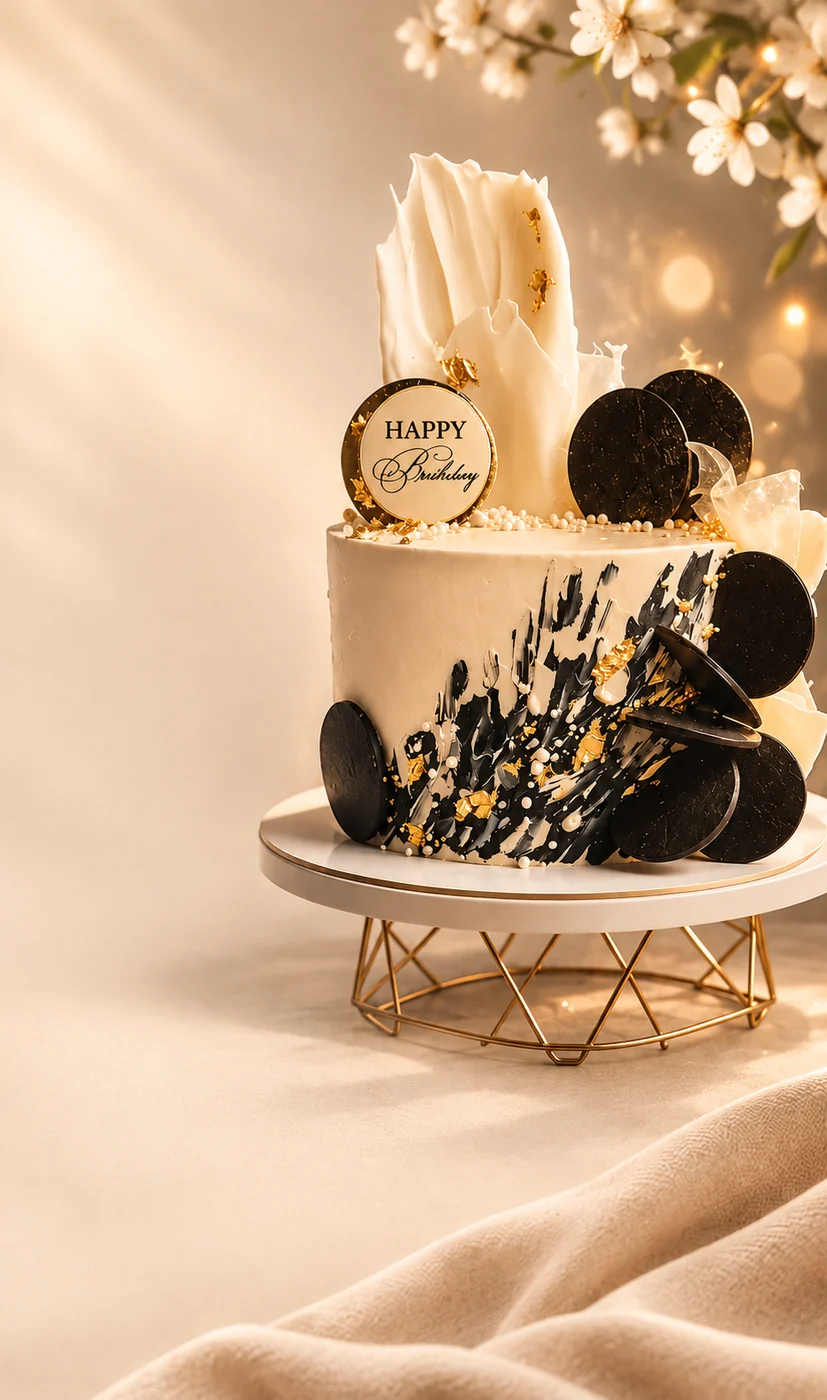
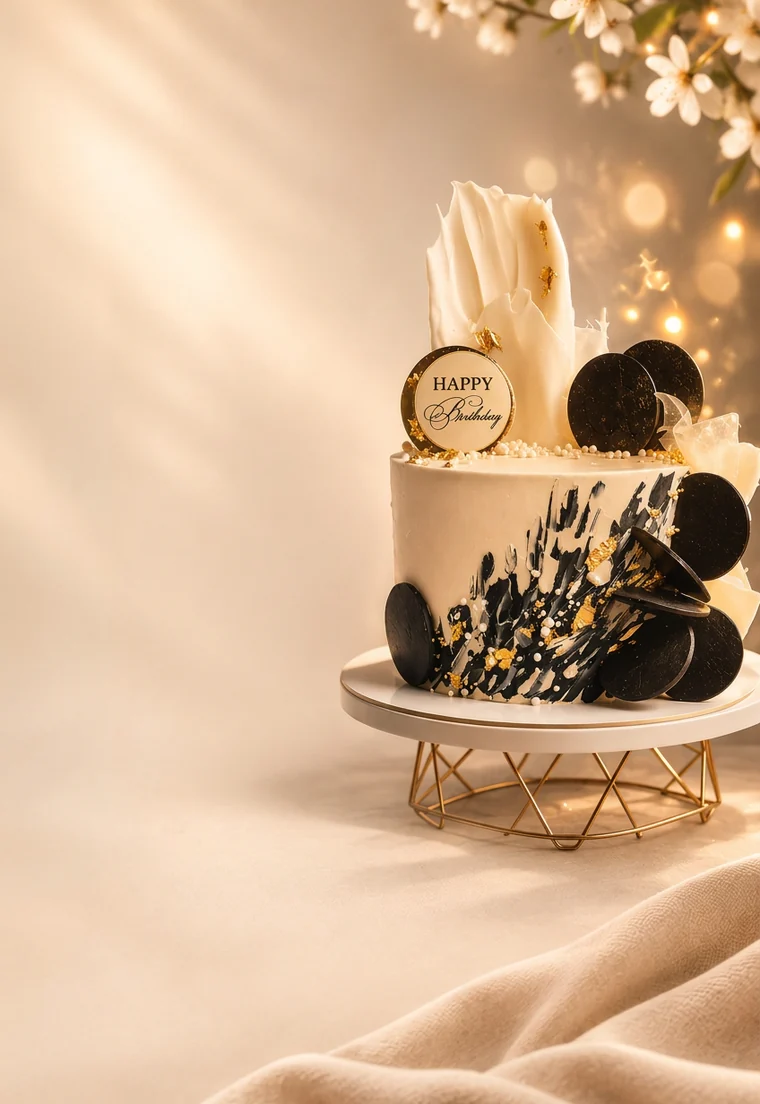
r18: герой на всю площадь сцены, фиксы hover CTA и центровки количества
- hero: новый арт с широкой рамой (торт справа 45%, стена/солнце слева),
  картинка во всю ширину и высоту по пропорции, мягкие световые переходы
  вместо прямоугольной маски; цветы и боке на месте
- текст держится в левой колонке: доставка в 2 строки, фичи в 2 строки,
  рейтинги и мессенджеры уходят под торт на чистый свет
- мессенджеры в герое по центру
- CTA: hover больше не убирает фон пилюли (кнопка «исчезала»)
- калькулятор: значение количества центрировано при «Бенто»/«Макси Бенто»
- версии: final-fixes -> 20261116r18, sw r136

diff --git a/css/final-fixes.css b/css/final-fixes.css
@@ -61,16 +61,16 @@ html:not([data-theme="dark"]) .hero .btn-primary.btn-primary--hero,
    box-shadow на элементе с radius:0, и он читался как серая рамка вокруг CTA. */
 /* 7.1 Телефон: CTA плоский — на hover меняется только текст и стрелка. */
 @media (max-width: 768px) {
+  /* [r17-fix] hover НЕ убирает фон пилюли: раньше кнопка становилась прозрачной
+     и текст «исчезал». Реагирует только сам текст и стрелка. */
   :root:not([data-theme="dark"]) .hero .btn-primary.btn-primary--hero:hover,
   html:not([data-theme="dark"]) .hero .btn-primary.btn-primary--hero:hover,
   [data-theme="dark"] .hero .btn-primary.btn-primary--hero:hover,
   .hero .btn-primary.btn-primary--hero:hover {
-    background: transparent !important;
     transform: none !important;
     border: 0 !important;
     outline: 0 !important;
-    box-shadow: none !important;
-    color: inherit;
+    filter: brightness(1.06);
   }
 }
 /* 7.2 Десктоп: кнопка залитая — hover не рисует коробку, только мягкая тень. */
@@ -1140,11 +1140,11 @@ html #contacts .card.card--dark .contact-primary-icon {
     transition: transform .42s cubic-bezier(.16,1,.3,1);
   }
   body.mc-home .hero-actions .btn-primary--hero:hover .btn-hero-go { transform: translateX(4px); }
+  /* [r17-fix] при наведении фон пилюли сохраняется — раньше кнопка
+     становилась прозрачной и надпись «исчезала» на фото. */
   body.mc-home .hero .hero-actions .btn-primary.btn-primary--hero:hover,
   body.mc-home .hero .hero-actions .btn-primary.btn-primary--hero:focus,
   body.mc-home .hero .hero-actions .btn-primary.btn-primary--hero:active {
-    background: none !important;
-    color: var(--brown) !important;
     transform: none !important;
   }
   /* наведение: сам текст уходит в глубокий золотистый тон, рамки нет */
@@ -1618,52 +1618,50 @@ html:not([data-theme="dark"]) body:has(.hero-tag) .price-card-note {
   body.mc-home .hero-art {
     display: block;
     position: absolute;
-    top: 50px;
-    right: -17vw;
-    width: 66vw;
+    inset: 0 0 auto 0;
+    width: 100%;
+    height: auto;
     z-index: 0;
     pointer-events: none;
   }
-  /* верхняя кромка арта уходит под шапку без видимого шва */
+  /* [r17-b] Арт живёт на всей площади героя, как на постере-референсе:
+     остаются и солнце на стене, и цветы, и лён внизу. Края не режем
+     прямоугольником, только мягкие световые переходы. */
   body.mc-home .hero-art::before {
     content: '';
     position: absolute;
-    inset: 0 0 auto 0;
-    height: 26%;
-    background: linear-gradient(180deg, var(--cream) 0%, rgba(247, 241, 232, .55) 46%, rgba(247, 241, 232, 0) 100%);
+    inset: 0;
     z-index: 1;
+    background:
+      linear-gradient(100deg, rgba(250, 245, 236, .5) 0%, rgba(250, 245, 236, .3) 22%, rgba(250, 245, 236, .06) 42%, rgba(250, 245, 236, 0) 54%),
+      radial-gradient(128% 46% at 6% 44%, rgba(250, 245, 236, .78) 0%, rgba(250, 245, 236, .46) 46%, rgba(250, 245, 236, 0) 74%),
+      linear-gradient(180deg, rgba(250, 245, 236, .3) 0%, rgba(250, 245, 236, 0) 14%);
     pointer-events: none;
   }
-  [data-theme="dark"] body.mc-home .hero-art::before {
-    background: linear-gradient(180deg, var(--cream) 0%, rgba(14, 9, 5, .55) 46%, rgba(14, 9, 5, 0) 100%);
-  }
-  /* кремовая вуаль: левая часть арта растворяется, текст остаётся на бумаге */
   body.mc-home .hero-art::after {
     content: '';
     position: absolute;
     inset: 0;
     z-index: 2;
-    background: linear-gradient(90deg, var(--cream) 0%, rgba(247, 241, 232, .82) 26%, rgba(247, 241, 232, .18) 46%, rgba(247, 241, 232, 0) 60%);
+    background: linear-gradient(180deg, rgba(247, 241, 232, 0) 46%, rgba(247, 241, 232, .34) 62%, rgba(247, 241, 232, .78) 80%, var(--cream) 94%);
     pointer-events: none;
   }
   body.mc-home .hero-art img {
     display: block;
     width: 100%;
     height: auto;
-    -webkit-mask-image: radial-gradient(74% 60% at 66% 40%, #000 52%, rgba(0, 0, 0, .5) 72%, transparent 90%);
-    mask-image: radial-gradient(74% 60% at 66% 40%, #000 52%, rgba(0, 0, 0, .5) 72%, transparent 90%);
   }
   [data-theme="dark"] body.mc-home .hero-art img {
-    opacity: .6;
-    filter: saturate(.8) brightness(.62) contrast(1.06);
+    filter: saturate(.9) brightness(.74) contrast(1.05);
   }
-  /* в тёмной теме вуаль тёмная: кремовый фон картинки не светит пятном */
+  [data-theme="dark"] body.mc-home .hero-art::before {
+    background:
+      linear-gradient(100deg, rgba(16, 10, 6, .68) 0%, rgba(16, 10, 6, .44) 24%, rgba(16, 10, 6, .1) 44%, rgba(16, 10, 6, 0) 56%),
+      radial-gradient(120% 42% at 4% 46%, rgba(16, 10, 6, .78) 0%, rgba(16, 10, 6, .44) 46%, rgba(16, 10, 6, 0) 72%),
+      linear-gradient(180deg, rgba(16, 10, 6, .34) 0%, rgba(16, 10, 6, 0) 14%);
+  }
   [data-theme="dark"] body.mc-home .hero-art::after {
-    z-index: 2;
-    background: linear-gradient(90deg, var(--cream) 0%, rgba(14, 9, 5, .9) 24%, rgba(14, 9, 5, .42) 46%, rgba(14, 9, 5, .08) 62%);
-  }
-  [data-theme="dark"] body.mc-home .hero {
-    background: linear-gradient(180deg, #17100a 0%, var(--cream) 46%, var(--cream) 100%);
+    background: linear-gradient(180deg, rgba(14, 9, 5, 0) 40%, rgba(14, 9, 5, .4) 58%, rgba(14, 9, 5, .82) 74%, var(--cream) 88%);
   }
   /* кнопка на постере держит нижнюю линию, как в референсе */
   body.mc-home .hero .hero-actions { margin-top: 22px; }
@@ -1671,9 +1669,11 @@ html:not([data-theme="dark"]) body:has(.hero-tag) .price-card-note {
 
 @media (max-width: 768px) {
   /* текст держится левее торта, как на постере: длинные строки переносятся */
-  body.mc-home .hero-subtitle .hero-sub-4 { max-width: 66%; }
-  body.mc-home .hero-features { max-width: 76%; }
-  body.mc-home .hero-features .hero-feature-item span { white-space: normal; }
+  body.mc-home .hero-subtitle .hero-sub-4 { max-width: 54%; }
+  body.mc-home .hero-features { max-width: 62%; }
+  /* Подписи фич живут в две строки, как на постере: длинная третья строка
+     уходила на торт. */
+  body.mc-home .hero-features .hero-feature-item span { white-space: normal; max-width: 156px; }
 }
 
 /* [r17] Шапка на мобиле больше не лежит на тёмном фото — фон героя кремовый,
@@ -1727,4 +1727,27 @@ html:not([data-theme="dark"]) body:has(.hero-tag) .price-card-note {
 /* [r17] Значки в шторке «Ещё» чуть крупнее — мелкие глифы читались как пятно. */
 @media (max-width: 768px) {
   .mc-sheet .mc-row-icon svg { width: 21px; height: 21px; }
+}
+
+/* [r17-fix] Степпер количества растягивался на всю строку и «2 ШТ» уезжало
+   влево от центра (для «Бенто»/«Макси Бенто»). Раскладываем по краям. */
+.calc-weight-stepper { justify-content: space-between; }
+
+/* [r17-b] Мессенджеры в герое — по центру, как на постере-референсе. */
+@media (max-width: 768px) {
+  body.mc-home .hero-actions .messenger-group--ring {
+    align-self: center;
+    justify-content: center;
+    gap: clamp(20px, 7vw, 34px);
+  }
+}
+
+@media (max-width: 768px) {
+  /* [r17-b] нижние строки героя уходят под торт: рейтинги, подпись, мессенджеры
+     и CTA стоят на чистом свете, как на постере-референсе. */
+  body.mc-home .hero-trust { margin-top: 46px; }
+  body.mc-home .hero-trust .hero-trust-badge { font-size: 12.5px; }
+  body.mc-home .hero-trust .hero-trust-icon--yandex { width: 16px; height: 16px; font-size: 10px; }
+  body.mc-home .hero-trust .hero-trust-rating { font-size: 13px; }
+  body.mc-home .hero-trust .hero-trust-stars { font-size: 9px; letter-spacing: -.6px; }
 }

diff --git a/index.html b/index.html
@@ -413,7 +413,7 @@
   <link rel="stylesheet" href="/css/v20-dark-and-fixes.css?v=20261116r10">
 <!-- Необязательная аналитика и LCP-телеметрия управляются согласием пользователя. -->
 <link rel="stylesheet" href="/css/v20-fixes.css?v=20260728r27">
-  <link rel="stylesheet" href="/css/final-fixes.css?v=20261116r17" />
+  <link rel="stylesheet" href="/css/final-fixes.css?v=20261116r18" />
   <!-- [P100] Детерминированный пропуск offscreen-layout на первом кадре:
        content-visibility:auto для секций ниже сгиба работает только до 2 кадров
        после FCP (или до первого взаимодействия / жёсткого таймаута 1500 мс),
@@ -590,11 +590,11 @@
     </picture>
   </div>
   <!-- [2026-11-16r17] Арт нового референса: торт с боке и цветами справа,
-       текст лежит на чистом креме слева. Только для мобильного постера. -->
+       текст лежит на чистом свете стены слева. Только для мобильного постера. -->
   <div class="hero-art" aria-hidden="true">
     <picture>
       <source type="image/webp" srcset="img/hero-poster-cake.webp" />
-      <img src="img/hero-poster-cake.jpg" alt="" width="827" height="1400" fetchpriority="high" decoding="async" />
+      <img src="img/hero-poster-cake.jpg" alt="" width="760" height="1104" fetchpriority="high" decoding="async" />
     </picture>
   </div>
   <div class="hero-content">

diff --git a/meringue-roll/index.html b/meringue-roll/index.html
@@ -1816,7 +1816,7 @@
   <link rel="stylesheet" href="/css/premium-overrides.css?v=20261116r07" />
   <link rel="stylesheet" href="/css/v20-dark-and-fixes.css?v=20261116r10">
   <link rel="stylesheet" href="/css/v20-fixes.css?v=20260728r27">
-  <link rel="stylesheet" href="/css/final-fixes.css?v=20261116r17" />
+  <link rel="stylesheet" href="/css/final-fixes.css?v=20261116r18" />
 <style id="lp-theme-toggle-css">
 .lp-theme-toggle{display:inline-flex;align-items:center;justify-content:center;width:38px;height:38px;min-width:38px;border-radius:50%;border:1px solid rgba(201,147,74,.3);background:rgba(255,255,255,.04);color:var(--gold,#c9934a);cursor:pointer;padding:0;flex-shrink:0;margin-left:auto;-webkit-tap-highlight-color:transparent;transition:border-color .2s,background .2s,transform .15s}
 .lp-theme-toggle:hover{border-color:var(--gold,#c9934a);background:rgba(201,147,74,.1)}

diff --git a/sw.js b/sw.js
@@ -7,7 +7,7 @@
      - skipWaiting + clients.claim → обновления подхватываются мгновенно
    ═══════════════════════════════════════════════════════════════════════ */
 
-const CACHE_NAME = 'milovi-cake-v2026.11.16-r135';
+const CACHE_NAME = 'milovi-cake-v2026.11.16-r136';
 
 const PRECACHE = [
   '/',
@@ -18,7 +18,7 @@ const PRECACHE = [
   '/css/premium-overrides.css?v=20261116r07',
   '/css/v20-dark-and-fixes.css?v=20261116r10',
   '/css/v20-fixes.css?v=20260728r27',
-  '/css/final-fixes.css?v=20261116r17',
+  '/css/final-fixes.css?v=20261116r18',
   '/css/gallery/gallery-2026.css?v=20261116r06',
   '/js/main.js?v=20261116r17',
   '/js/nav.js?v=20261116r17',

diff --git a/prigorody/index.html b/prigorody/index.html
@@ -197,7 +197,7 @@
   </script>
 
   <link rel="stylesheet" href="/css/v20-fixes.css?v=20260728r27">
-  <link rel="stylesheet" href="/css/final-fixes.css?v=20261116r17" />
+  <link rel="stylesheet" href="/css/final-fixes.css?v=20261116r18" />
   <!-- [P100] Детерминированный пропуск offscreen-layout на первом кадре:
        content-visibility:auto для секций ниже сгиба работает только до 2 кадров
        после FCP (или до первого взаимодействия / жёсткого таймаута 1500 мс),

diff --git a/gallery/index.html b/gallery/index.html
@@ -140,7 +140,7 @@
   })();
   </script>
   <link rel="stylesheet" href="/css/gallery/gallery-2026.css?v=20261116r06" />
-  <link rel="stylesheet" href="/css/final-fixes.css?v=20261116r17" />
+  <link rel="stylesheet" href="/css/final-fixes.css?v=20261116r18" />
 <style id="gallery-stable-fonts">
 /* The gallery uses deterministic local font stacks. Remote webfont activation after
    first paint caused an intermittent 0.21 CLS shift in production Lighthouse. The

diff --git a/prigorody/_template.html b/prigorody/_template.html
@@ -135,7 +135,7 @@
   }
   </script>
   <link rel="stylesheet" href="/css/v20-fixes.css?v=20260728r27">
-  <link rel="stylesheet" href="/css/final-fixes.css?v=20261116r17" />
+  <link rel="stylesheet" href="/css/final-fixes.css?v=20261116r18" />
   <style id="suburb-a11y-contrast">
     :root:not([data-theme="dark"]) .prigorody-page .calc-opt.selected{color:#2c1a10}
     :root:not([data-theme="dark"]) .prigorody-page .calc-stepper-val{color:#8a5723}

diff --git a/prigorody/gatchina/index.html b/prigorody/gatchina/index.html
@@ -135,7 +135,7 @@
   }
   </script>
   <link rel="stylesheet" href="/css/v20-fixes.css?v=20260728r27">
-  <link rel="stylesheet" href="/css/final-fixes.css?v=20261116r17" />
+  <link rel="stylesheet" href="/css/final-fixes.css?v=20261116r18" />
   <style id="suburb-a11y-contrast">
     :root:not([data-theme="dark"]) .prigorody-page .calc-opt.selected{color:#2c1a10}
     :root:not([data-theme="dark"]) .prigorody-page .calc-stepper-val{color:#8a5723}

diff --git a/prigorody/kolpino/index.html b/prigorody/kolpino/index.html
@@ -135,7 +135,7 @@
   }
   </script>
   <link rel="stylesheet" href="/css/v20-fixes.css?v=20260728r27">
-  <link rel="stylesheet" href="/css/final-fixes.css?v=20261116r17" />
+  <link rel="stylesheet" href="/css/final-fixes.css?v=20261116r18" />
   <style id="suburb-a11y-contrast">
     :root:not([data-theme="dark"]) .prigorody-page .calc-opt.selected{color:#2c1a10}
     :root:not([data-theme="dark"]) .prigorody-page .calc-stepper-val{color:#8a5723}

diff --git a/prigorody/krasnoe-selo/index.html b/prigorody/krasnoe-selo/index.html
@@ -135,7 +135,7 @@
   }
   </script>
   <link rel="stylesheet" href="/css/v20-fixes.css?v=20260728r27">
-  <link rel="stylesheet" href="/css/final-fixes.css?v=20261116r17" />
+  <link rel="stylesheet" href="/css/final-fixes.css?v=20261116r18" />
   <style id="suburb-a11y-contrast">
     :root:not([data-theme="dark"]) .prigorody-page .calc-opt.selected{color:#2c1a10}
     :root:not([data-theme="dark"]) .prigorody-page .calc-stepper-val{color:#8a5723}

diff --git a/prigorody/kronshtadt/index.html b/prigorody/kronshtadt/index.html
@@ -135,7 +135,7 @@
   }
   </script>
   <link rel="stylesheet" href="/css/v20-fixes.css?v=20260728r27">
-  <link rel="stylesheet" href="/css/final-fixes.css?v=20261116r17" />
+  <link rel="stylesheet" href="/css/final-fixes.css?v=20261116r18" />
   <style id="suburb-a11y-contrast">
     :root:not([data-theme="dark"]) .prigorody-page .calc-opt.selected{color:#2c1a10}
     :root:not([data-theme="dark"]) .prigorody-page .calc-stepper-val{color:#8a5723}

diff --git a/prigorody/kudrovo/index.html b/prigorody/kudrovo/index.html
@@ -135,7 +135,7 @@
   }
   </script>
   <link rel="stylesheet" href="/css/v20-fixes.css?v=20260728r27">
-  <link rel="stylesheet" href="/css/final-fixes.css?v=20261116r17" />
+  <link rel="stylesheet" href="/css/final-fixes.css?v=20261116r18" />
   <style id="suburb-a11y-contrast">
     :root:not([data-theme="dark"]) .prigorody-page .calc-opt.selected{color:#2c1a10}
     :root:not([data-theme="dark"]) .prigorody-page .calc-stepper-val{color:#8a5723}
